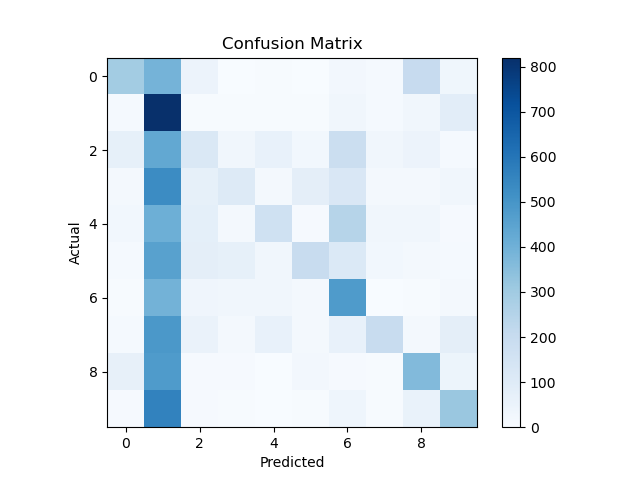
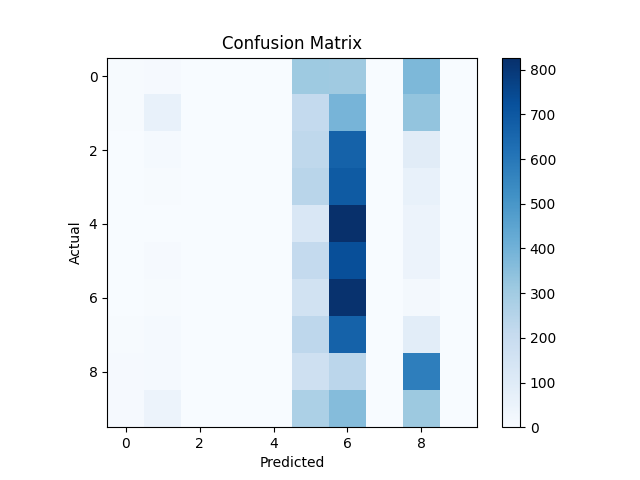
[+] ready for submission

diff --git a/lab10/nn_batch.py b/lab10/nn_batch.py
@@ -1,0 +1,242 @@
+from tqdm import trange
+import numpy as np
+from math import e
+from preprocessing import Dataset
+from functions import Evaluation_metrics
+
+class Layer:
+    def __init__(self, input_shape, output_shape) -> None:
+        self.input_shape = input_shape
+        self.output_shape = output_shape
+    
+    def _forward(self, data):
+        raise NotImplementedError
+    
+    def _backward(self, loss, lr):
+        raise NotImplementedError
+    
+    def __str__(self) -> str:
+        return f"[ {self.__name__} ]: {self.input_shape} -> {self.output_shape}]"
+
+class LinearLayer(Layer):
+    def __init__(self, input_size, output_size):
+        super().__init__(input_size, output_size)
+        self.weights = np.random.randn(input_size, output_size) / np.sqrt(input_size + output_size)
+        self.bias = np.random.randn(1, output_size) / np.sqrt(input_size + output_size)
+
+    def _forward(self, input):
+        self.input = input
+        return np.dot(input, self.weights) + self.bias
+
+    def _backward(self, output_error, learning_rate):
+        input_error = np.dot(output_error, self.weights.T)
+        weights_error = np.dot(self.input.T, output_error)
+        # bias_error = output_error
+        
+        self.weights -= learning_rate * weights_error
+        self.bias -= learning_rate * output_error
+        return input_error
+
+class LogisticLayer(Layer):
+    def __init__(self, input_shape, output_shape) -> None:
+        super().__init__(input_shape, output_shape)
+        self.__name__ = "Logistic Layer"
+        self.weight = np.random.rand(input_shape, output_shape)*0.01 # [A, B]
+        self.bias = np.random.rand(1, output_shape)*0.01
+    
+    def _forward(self, data):
+        self.input_data = data
+        return 1 / ( 1 + np.exp(-np.dot(data, self.weight) + self.bias))
+    
+    def _backward(self, loss, lr):
+        # loss = [N, B]
+        inp_error = np.dot(loss, self.weight.T)
+        # [784, 1] dot [N, B] -> [784, B]
+        weight_error = np.dot(self.input_data.reshape(-1, 1), loss)
+
+        # adjust weights and biases
+        self.weight -= lr * weight_error
+        self.bias -= lr * loss
+
+        return inp_error
+
+
+class ActivationLayer:
+    def __init__(self, activation, activation_prime):
+        self.activation = activation
+        self.activation_prime = activation_prime
+    
+    def _forward(self, input):
+        self.input = input
+        return self.activation(input)
+    
+    def _backward(self, output_error, learning_rate):
+        return output_error * self.activation_prime(self.input)
+
+    def __str__(self) -> str:
+        return f"[ Activation ]: {self.__name__}"
+
+    
+class SigmoidActivationLayer(ActivationLayer):
+    def __init__(self):
+        super().__init__(self.sigmoid, self.sigmoid_prime)
+
+    @staticmethod
+    def sigmoid(x):
+        return 1 / (1 + np.exp(-x))
+
+    @staticmethod
+    def sigmoid_prime(x):
+        return np.exp(-x) / (1 + np.exp(-x))**2
+
+    
+class TanhActivation(ActivationLayer):
+    def __init__(self) -> None:
+        self.__name__ = "Tanh"
+        self.activation = lambda x: np.tanh(x)
+        self.activation_prime = lambda x: 1 - np.tanh(x)**2
+        super().__init__(self.activation, self.activation_prime)
+
+class ReluActivation(ActivationLayer):
+    def __init__(self) -> None:
+        super().__init__(self.activation, self.activation_prime)
+
+    @staticmethod
+    def activation(x):
+        return np.maximum(0, x)
+    
+    @staticmethod
+    def activation_prime(x):
+        return np.where(x > 0, 1, 0)
+
+
+class LeakyReluActivation(ActivationLayer):
+    def __init__(self, alpha=0.01) -> None:
+        super().__init__(self.activation, self.activation_prime)
+        self.alpha = alpha
+
+    def activation(self, x):
+        return np.where(x > 0, x, self.alpha * x)
+    
+    def activation_prime(self, x):
+        return np.where(x > 0, 1, self.alpha)
+
+class Network:
+    def __init__(self, error, error_prime) -> None:
+        self.layers = []
+        self.error = error
+        self.error_prime = error_prime
+
+    def add(self, layer):
+        self.layers.append(layer)
+
+    def fit(self, x_train, y_train, epochs, lr, batch_size=4):
+        samples = len(x_train)
+        self.lr = lr
+
+        for epoch in range(epochs):
+            error = 0
+                        # Shuffle the training data for each epoch
+            indices = np.random.permutation(samples)
+            x_train_shuffled = x_train[indices]
+            y_train_shuffled = y_train[indices]
+
+            for j in trange(0,samples, batch_size):
+                batch_x = x_train_shuffled[j:j+batch_size]
+                batch_y = y_train_shuffled[j:j+batch_size]
+                batch_error = 0
+                for i in range(len(batch_x)):
+                    output = batch_x[i].reshape(1, -1)
+                    y_true = batch_y[i]
+
+                    for layer in self.layers:
+                        output = layer._forward(output)
+
+                    batch_error += self.error(y_true, output)
+
+                # Average the error over the batch
+                error += batch_error / len(batch_x)
+
+                # Backward pass for the entire batch
+                output_error = self.error_prime(y_true, output)
+
+                for layer in reversed(self.layers):
+                    output_error = layer._backward(output_error, lr)
+    
+            error /= len(x_train)
+            print('%d/%d, error=%f' % (epoch + 1, epochs, error))
+
+    def predict(self, data_x):
+        for layer in self.layers:
+            data_x = layer._forward(data_x)
+        return data_x
+    
+    def evalute(self, x_test, y_test, n_classes):
+        print("Evaluating...")
+        y_pred = self.predict(x_test)
+        y_pred = np.argmax(y_pred, axis=1)
+        y_test = np.argmax(y_test, axis=1)
+        # print(y_pred[0], y_test[0])
+        evaluator = Evaluation_metrics(y_pred, y_test, n_classes)
+        conf_mat = evaluator.confusion_matrix()
+        acc = evaluator.accuracy()
+        print(f"Accuracy: {acc*100}%")
+        # print(f"Confusion Matrix: \n{conf_mat}")
+        return conf_mat, acc
+    
+class Error:
+    @staticmethod
+    def mse(y_true, y_pred):
+        return np.mean(np.power(y_true - y_pred, 2))
+
+    @staticmethod
+    def mse_prime(y_true, y_pred):
+        return 2 * (y_pred - y_true) / y_pred.size
+
+    @staticmethod
+    def sse(y_true, y_pred):
+        return 0.5 * np.sum(np.power(y_true - y_pred, 2))
+
+    @staticmethod
+    def sse_prime(y_true, y_pred):
+        return y_pred - y_true
+    
+
+if __name__ == '__main__':
+    epochs = 30
+    learning_rate = 0.1
+
+    # (x_train, y_train), (x_test, y_test) = mnist_loader()
+    train = Dataset('archive/mnist_train.csv')
+    test = Dataset('archive/mnist_test.csv')
+    x_train, y_train = train.data, train.targets
+    x_test, y_test = test.data, test.targets
+    # print(train_x.shape, train_y.shape)
+    # x_train = x_train[:10000]
+    # y_train = y_train[:10000]
+    x_test = x_test[:1000]
+    y_test = y_test[:1000]
+    
+    
+
+    network = Network(Error.mse, Error.mse_prime)
+    # network.add(FlattenLayer(input_shape=(28, 28)))
+    network.add(LinearLayer(28 * 28, 10))
+    network.add(SigmoidActivationLayer())
+    network.fit(x_train, y_train, epochs, learning_rate)
+
+    conf_mat, acc = network.evalute(x_test, y_test, 10)
+    
+    ## plot confusion matrix
+    import matplotlib
+    matplotlib.use('Agg')
+    import matplotlib.pyplot as plt
+
+    plt.imshow(conf_mat, cmap='Blues')
+    plt.colorbar()        
+    plt.title('Confusion Matrix')
+    plt.xlabel('Predicted')
+    plt.ylabel('Actual')
+    plt.savefig('confusion_matrix.png')
+
+    

diff --git a/lab10/assign2_iris.py b/lab10/assign2_iris.py
@@ -48,16 +48,16 @@ def dataloader():
     #hot encode
 
 def main():
-    epochs = 500
+    epochs = 100
     learning_rate = 0.1
     x_train, y_train, x_test, y_test = dataloader()
 
     network = Network(Error.sse, Error.sse_prime)
-    network.add(LinearLayer(4, 10))
+    network.add(LinearLayer(4, 5))
     network.add(LeakyReluActivation())
-    network.add(LinearLayer(10, 10))
-    network.add(LeakyReluActivation())
-    network.add(LinearLayer(10, 3))
+    # network.add(LinearLayer(10, 10))
+    # network.add(LeakyReluActivation())
+    network.add(LinearLayer(5, 3))
     network.add(LeakyReluActivation())
 
     network.fit(x_train, y_train, epochs, learning_rate)
@@ -69,10 +69,13 @@ def main():
         conf_matrix[np.argmax(y_test[i])][np.argmax(predictions[i])] += 1
 
     print(conf_matrix)
-    # show confusion matrix
-    fig, ax = plt.subplots()
-    im = ax.imshow(conf_matrix)
-    plt.show()
+    # # show confusion matrix
+    # fig, ax = plt.subplots()
+    # im = ax.imshow(conf_matrix)
+    # plt.show()
+
+    acurecy = (conf_matrix[0][0] + conf_matrix[1][1] + conf_matrix[2][2])/len(predictions)
+    print(acurecy*100)
 
 if __name__ == '__main__':
     main()

diff --git a/lab10/assign2_cifer10.py b/lab10/assign2_cifer10.py
@@ -11,16 +11,25 @@ if __name__ == '__main__':
     x_train, y_train = train.data, train.targets
     x_test, y_test = test.data, test.targets
     
+
+    # x_train, y_train = x_train[:1000], y_train[:1000]
     # metadata
-    epochs = 1
-    learning_rate = 0.01
+    epochs = 5
+    learning_rate = 0.1
     
     network = Network(Error.mse, Error.mse_prime)
-    network.add(LinearLayer(x_train.shape[1], 32))
-    network.add(TanhActivation())
-    network.add(LinearLayer(32, 10))
-    network.add(TanhActivation())
-    network.fit(x_train, y_train, epochs, learning_rate)
+    network.add(LinearLayer(x_train.shape[1], 1000))
+    network.add(LeakyReluActivation())
+
+    network.add(LinearLayer(1000, 500))
+    network.add(LeakyReluActivation())
+    # network.add(TanhActivation())
+    network.add(LinearLayer(500, 10))
+    network.add(LeakyReluActivation())
+    # network.add(TanhActivation())
+
+    network.fit(x_train[:1000], y_train[:1000], epochs, learning_rate)
+    # network.fit(x_train[1000:2000], y_train[1000:2000], epochs, 0.01)
 
     conf_mat, acc = network.evalute(x_test, y_test, 10)
     

diff --git a/lab10/results.py b/lab10/results.py
@@ -1,0 +1,18 @@
+### Stats for CIFER10
+leakyrelu_data = [
+    [10, 500, 29.299],
+    [10, 1500, 31.75],
+    [10, 1000, 27.38],
+    [20, 1000, 33.87],
+    [30, 1500, 38.23]
+]
+
+## Stats for Iris
+data = [
+    [100, 10, 96.6],
+    [100, 20, 100],
+    [50, 20, 96.6],
+    [50, 10, 86.6],
+    [50, 5, 90],
+    [100, 5, 96.6]
+]
